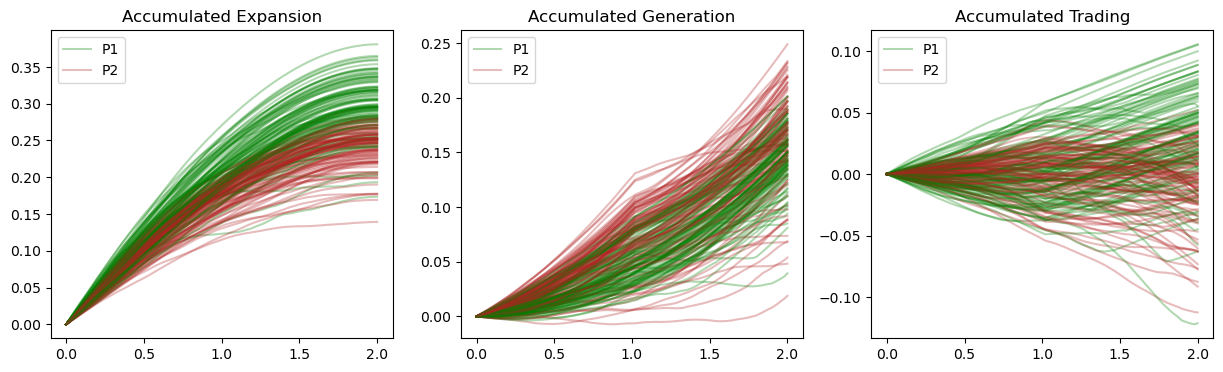
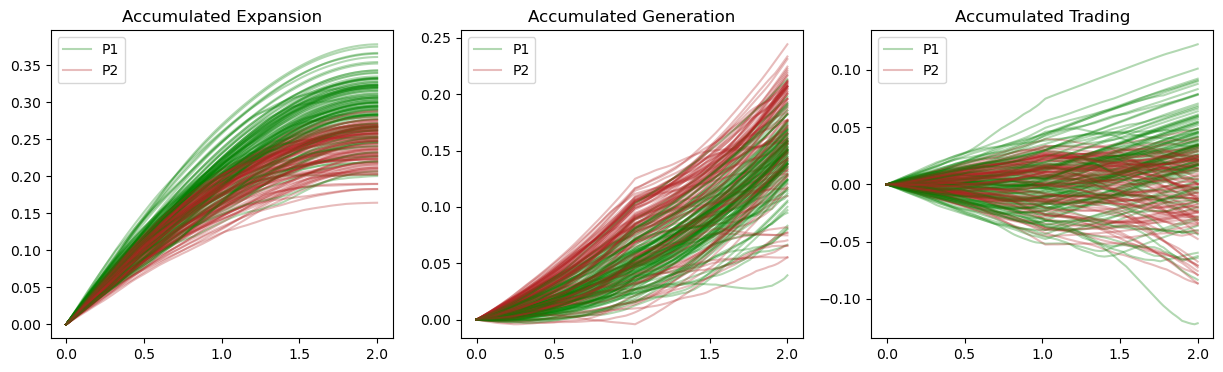
Fixed bugs in saving figs.

diff --git a/InvPenalty-MultiP/Joint_Optim_2Prdx1/utils.py b/InvPenalty-MultiP/Joint_Optim_2Prdx1/utils.py
@@ -655,6 +655,8 @@ class plot_results():
           plt.xlabel("$X_{T_2}^{(1)}$")
           plt.ylabel("Count")
           plt.legend()
+          if self.savefigs and self.to_path:
+            plt.savefig(self.to_path.joinpath("Inventory-Distribution-pop1.png"),bbox_inches='tight')
           ## -------------------------------- Population 2 -------------------------------- ##
           plt.figure(figsize=(12,5))
           plt.suptitle("Inventory @ Delivery - P2")
@@ -675,7 +677,7 @@ class plot_results():
           plt.ylabel("Count")
           plt.legend()
           if self.savefigs and self.to_path:
-            plt.savefig(self.to_path.joinpath("Inventory-Distribution.png"),bbox_inches='tight')
+            plt.savefig(self.to_path.joinpath("Inventory-Distribution-pop2.png"),bbox_inches='tight')
 
     def Decomposition_Inventory(self, cumulative=True, base_rate=False):
         ## [0,NT1] --> init NT1 --> [NT1+1,NT2]
